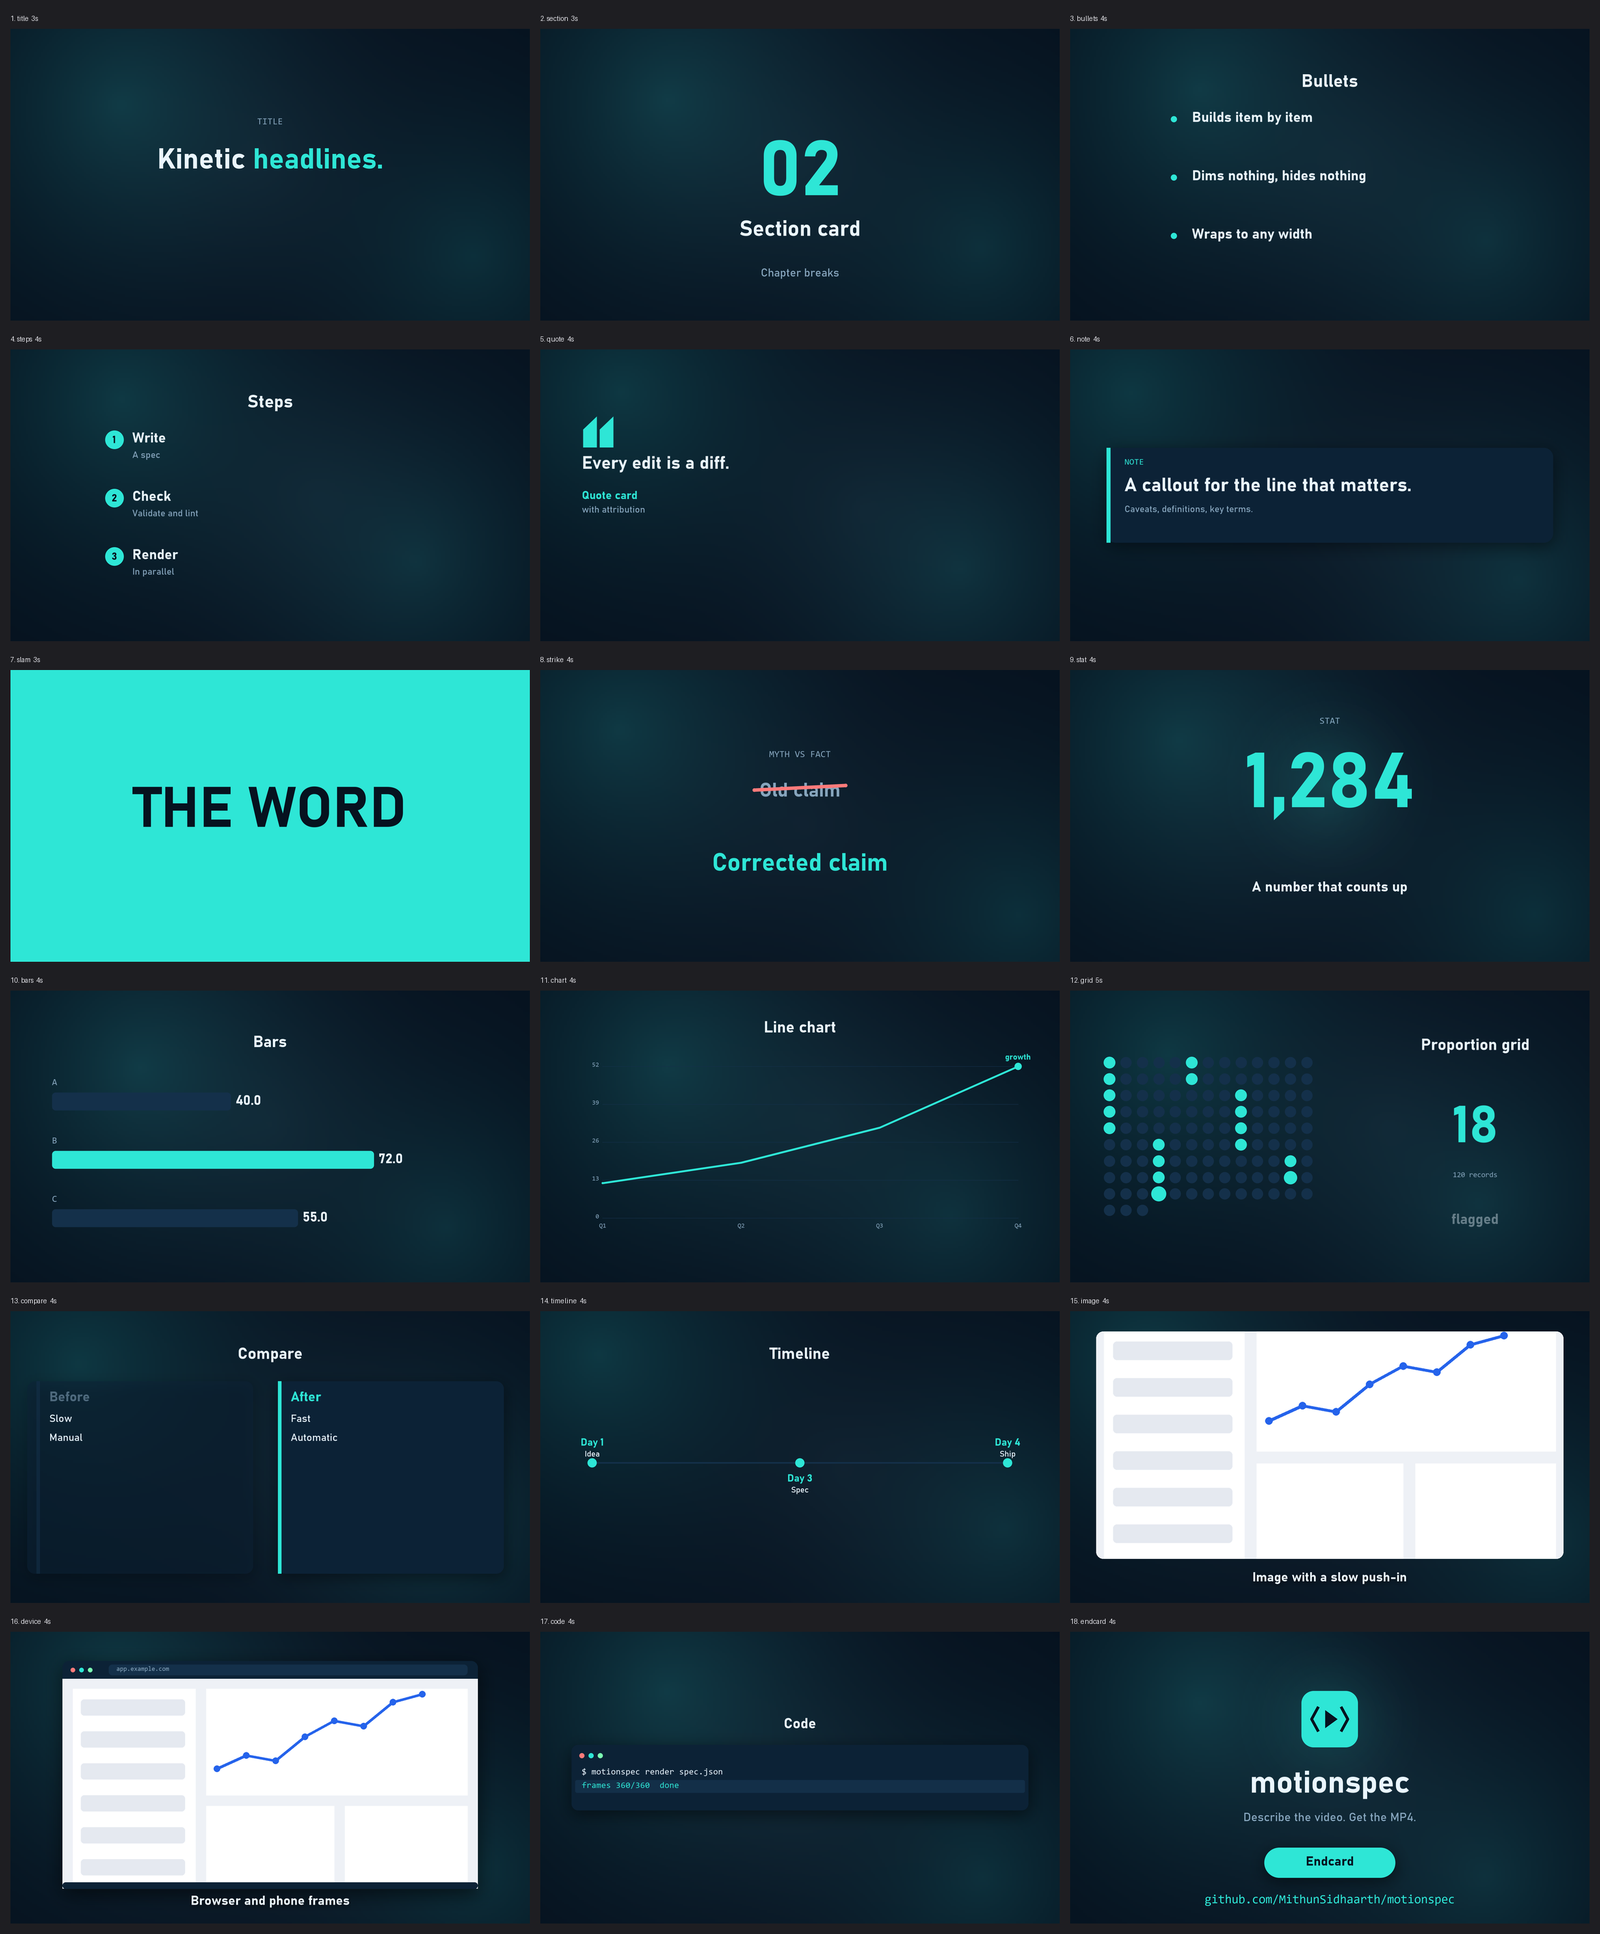
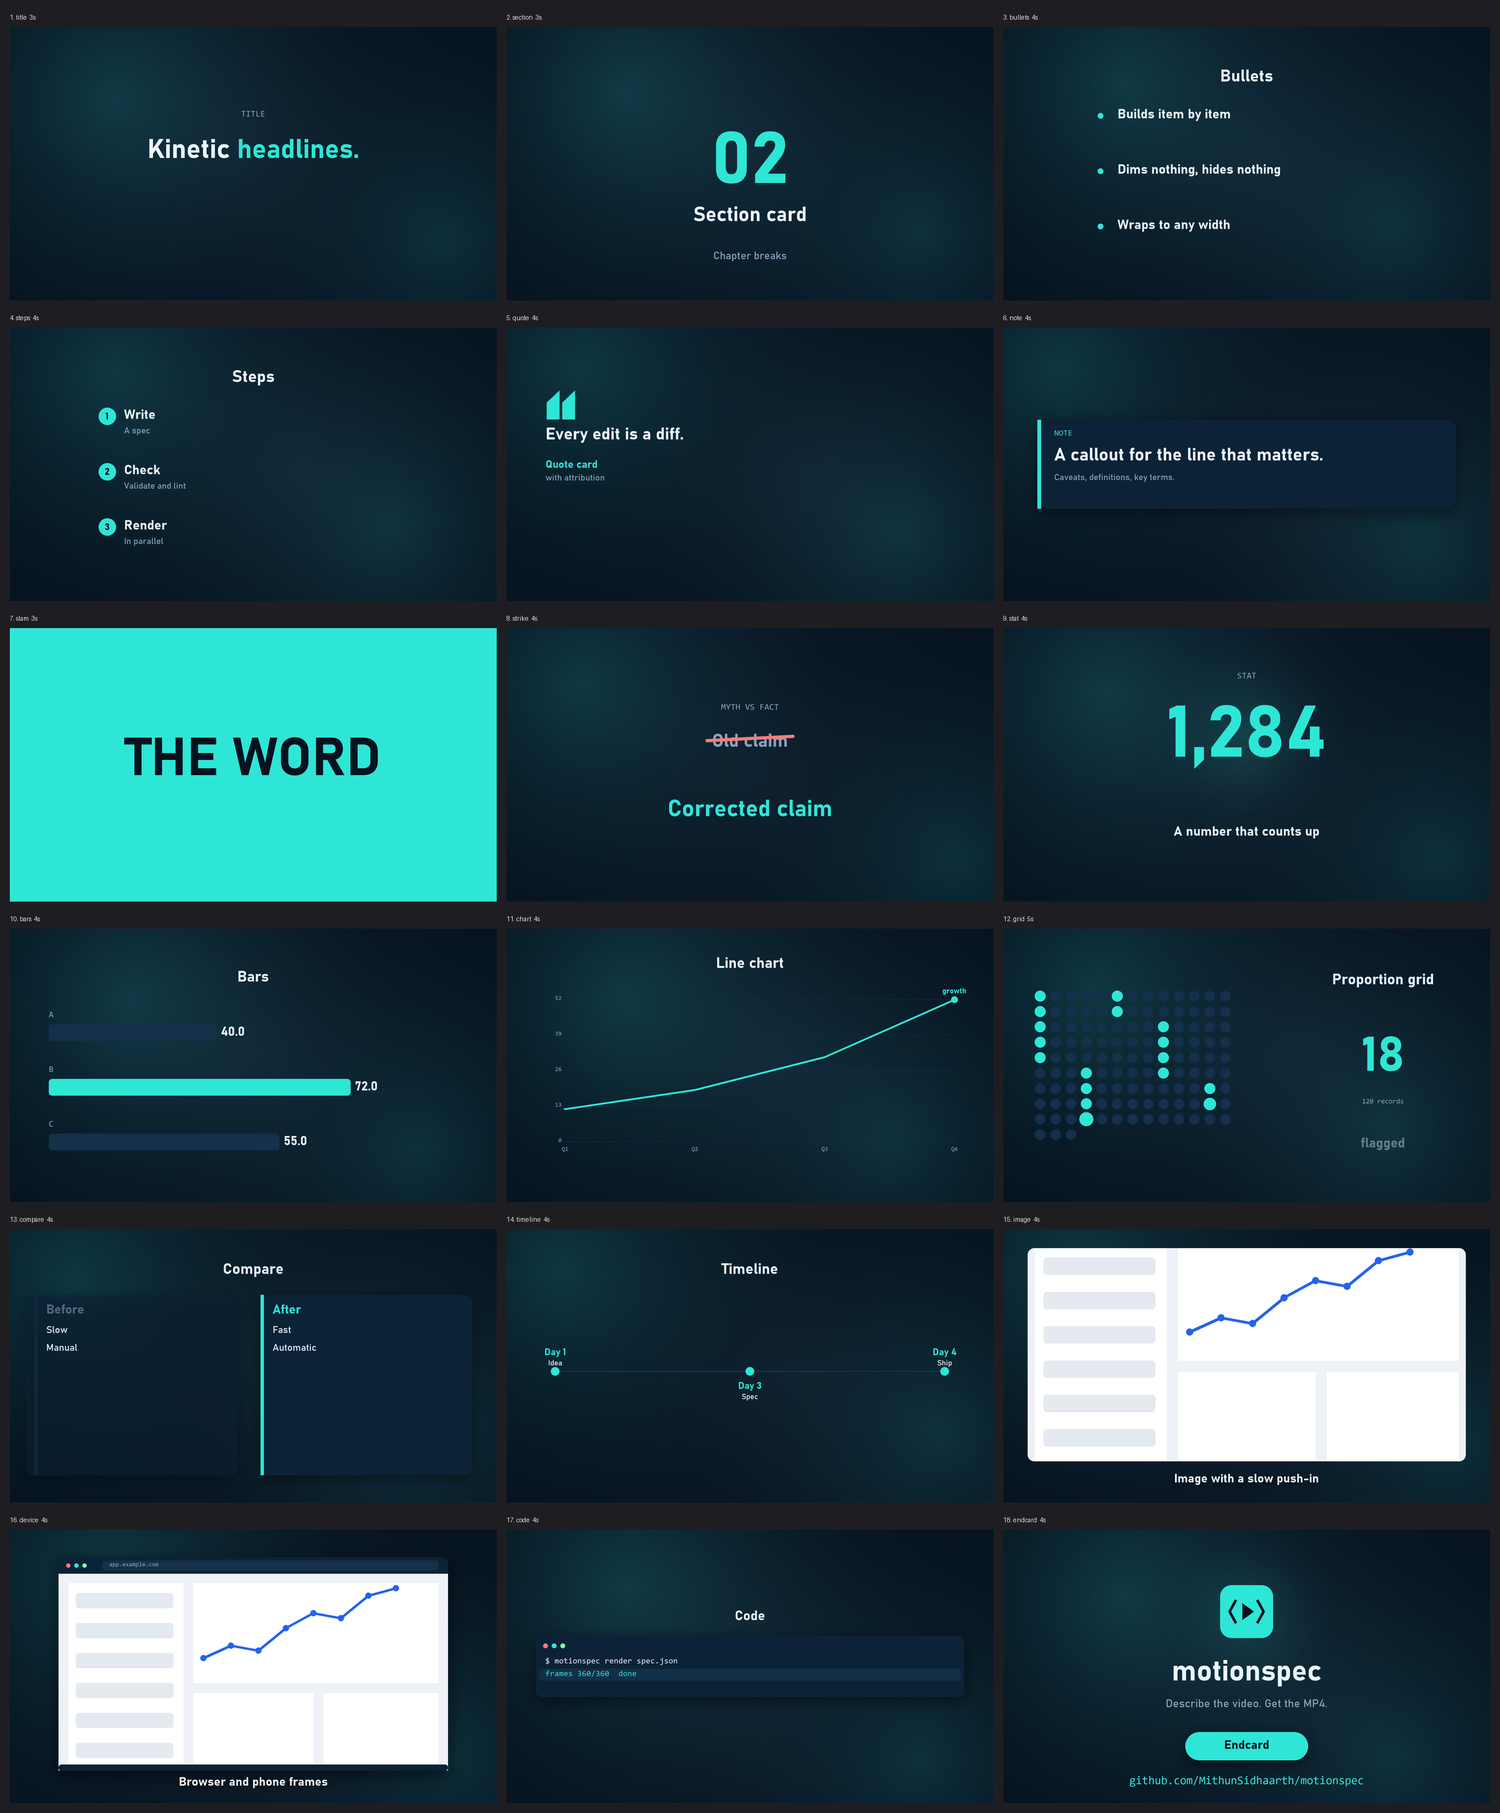
Centre layouts on every format, multi-word emphasis, typing-time warning; ads for motionspec and for the skill; skill and README updated

Changed region(s): [[0.736, 0.0618, 0.828, 0.1236], [0.0613, 0.2162, 0.1227, 0.3089]]

diff --git a/motionspec/scenes/text.py b/motionspec/scenes/text.py
@@ -4,11 +4,13 @@ from . import scene
 
 
 def _tokens(line):
-    """'Make it *pop* today' -> [('Make', False), ('it', False), ('pop', True), ('today', False)] (asterisks mark emphasis)."""
-    out = []
+    """'Make it *pop* now' -> [('Make', False), ('it', False), ('pop', True), ('now', False)]. Emphasis can span words: '*a video*'."""
+    out, on = [], False
     for w in line.split():
-        em = w.startswith("*") and w.rstrip(".,!?;:").endswith("*") and len(w) > 2
-        out.append((w.replace("*", ""), em))
+        start = w.startswith("*"); end = w.rstrip(".,!?;:").endswith("*") and len(w.rstrip(".,!?;:")) > (1 if start else 0)
+        if start: on = True
+        out.append((w.replace("*", ""), on))
+        if end: on = False
     return out
 
 
@@ -17,7 +19,7 @@ def _tokens(line):
        cues=lambda s: [(0.15 + i * s.get("step", 0.22) * (1.5 if s.get("style") == "words" else 1), "tick") for i in range(len(s.get("lines", [])))],
        desc="Big headline. `style`: lines (default) | words (each word springs in) | letters (kinetic). Use *asterisks* to colour a word with the accent.")
 def title(c, t, s):
-    size = s.get("size", 112); y = c.Y(560) if not c.wide else c.H * 0.40; style = s.get("style", "lines"); step = s.get("step", 0.22)
+    size = s.get("size", 112); y = c.Y(560) if c.tall else c.H * (0.40 if c.wide else 0.36); style = s.get("style", "lines"); step = s.get("step", 0.22)
     px = c.S(size)
     if s.get("kicker"): c.text(c.cx, y - c.S(110), s["kicker"], "mono", 36, "muted", prog(t, 0.0, 0.5))
     n_word = 0
@@ -63,7 +65,8 @@ def bullets(c, t, s):
     items = [i if isinstance(i, dict) else {"head": i} for i in s["items"]]
     if not items: return
     if s.get("title"): c.text(c.cx, c.H * 0.15, c.fit(s["title"], "bold", 70, 0.86), "bold", 70, "fg", out_cubic(prog(t, 0.1, .5)))
-    n = len(items); y = c.H * 0.28; step = min(c.S(230), (c.H * 0.6) / n); left = c.W * (0.12 if not c.wide else 0.2)
+    n = len(items); top, bot = c.H * 0.22, c.H * (0.76 if c.tall else 0.88)
+    step = min(c.S(230), (bot - top) / n); block = (n - 1) * step + c.S(120); y = top + max(0.0, ((bot - top) - block) / 2); left = c.W * (0.12 if not c.wide else 0.2)
     for k, it in enumerate(items):
         p = out_cubic(prog(t, 0.45 + k * 0.45, 0.55))
         if s.get("numbered"):

diff --git a/tests/test_motionspec.py b/tests/test_motionspec.py
@@ -156,6 +156,21 @@ class Align(unittest.TestCase):
         self.assertAlmostEqual(out[-1]["t1"], 6.0, delta=0.08)
 
 
+class Emphasis(unittest.TestCase):
+    def test_emphasis_spans_words(self):
+        from motionspec.scenes.text import _tokens
+        self.assertEqual(_tokens("for *a video*."), [("for", False), ("a", True), ("video.", True)])
+        self.assertEqual(_tokens("Make it *pop* now"), [("Make", False), ("it", False), ("pop", True), ("now", False)])
+
+
+class Warnings(unittest.TestCase):
+    def test_code_typing_that_cannot_finish_is_flagged(self):
+        sp = {"scenes": [{"type": "code", "dur": 2, "cps": 10, "lines": ["x" * 80]}]}
+        self.assertTrue(any("typing needs" in w for w in Project(sp, EX).warnings))
+        sp["scenes"][0]["cps"] = 200
+        self.assertFalse(any("typing needs" in w for w in Project(sp, EX).warnings))
+
+
 class Music(unittest.TestCase):
     def test_generated_music_is_deterministic_and_sane(self):
         import numpy as np

diff --git a/motionspec/render.py b/motionspec/render.py
@@ -69,6 +69,10 @@ class Project:
         if self.voiceover:
             vd = audio.probe_duration(self.voiceover)
             if vd > t + 0.05: self.warnings.append(f"voiceover is {vd:.1f}s but scenes total {t:.1f}s: the end will be cut. Use \"autotime\": true or lengthen scenes.")
+        for i, sc in enumerate(scenes):
+            if sc["type"] == "code":
+                need = sum(len(str(x)) for x in sc.get("lines", [])) / max(1.0, float(sc.get("cps", 38))) + 0.4
+                if need > sc["dur"]: self.warnings.append(f"scenes[{i}] (code): typing needs {need:.1f}s but the scene lasts {sc['dur']}s; raise cps or dur")
         self.captions = captions_mod.build(scenes, spec.get("captions"), word_times=self.word_times)
         self.karaoke = spec.get("captions_style") == "karaoke"
 

diff --git a/motionspec/scenes/media.py b/motionspec/scenes/media.py
@@ -87,7 +87,7 @@ def clip(c, t, s):
 def code(c, t, s):
     lines = [str(x) for x in s["lines"]]
     if not lines: return
-    cps = max(1.0, float(s.get("cps", 38))); chars = int(max(0, t - 0.4) * cps)
+    cps = max(1.0, float(s.get("cps", 38))); chars = int(max(0, t - 0.4) * cps)      # cps: characters per second; pick it so typing ends before the scene does
     x0, x1 = c.W * 0.06, c.W * 0.94; size = 34; lh = c.S(size * 1.55)
     h = lh * len(lines) + c.S(150); y0 = c.H / 2 - h / 2
     if s.get("title"): c.text(c.cx, y0 - c.S(110), c.fit(s["title"], "bold", 56, 0.86), "bold", 56, "fg", prog(t, 0.1, .4))

diff --git a/skill/motionspec/references/spec-reference.md b/skill/motionspec/references/spec-reference.md
@@ -1,8 +1,10 @@
 # Spec reference
 
-Generated from the scene registry (`motionspec scenes`). `*` = required. Top-level keys: spec_version, id, kind (reel|ad|explainer|demo|general), format, theme, scenes, captions [{t0,t1,text}], voiceover, music, facts, policy, autotime, blur, post {bloom, grain, aberration}, fps, sfx.
+Generated from the scene registry (`motionspec scenes`). `*` = required.
 
-Every scene also accepts: `camera` {zoom:[from,to], pan:[dx0,dy0,dx1,dy1], drift:0..1}, `transition: "cut"`, `say`, `bg`, `gradient`.
+Top-level keys: spec_version, id, kind (reel|ad|explainer|demo|general), format, theme, look (clean|soft|film|neon), motion (none|calm|lively), backdrop (orbs|grid|dots|none), transition (fade|cut|push|wipe|zoom), scenes, captions [{t0,t1,text}], captions_style (plain|karaoke), voiceover, music ("auto" default | "off" | path | {mood, db}), align, autotime, cues [{t, sound}], facts, approved_facts, policy, blur, post {bloom, grain, aberration}, fps, sfx.
+
+Every scene also accepts: `camera` {zoom:[from,to], pan:[dx0,dy0,dx1,dy1], drift:0..1}, `transition`, `backdrop`, `say`, `bg`, `gradient`.
 
 ```
 
@@ -44,6 +46,14 @@ compare: Two cards side by side (stacked on tall formats): before/after, us/them
     title: str
     left*: dict
     right*: dict
+
+device: Screenshot inside a browser window (`kind`: browser, default on wide) or phone (`kind`: phone, default on tall) frame, with a slow push-in.
+    src*: str
+    kind: str
+    url: str
+    caption: str
+    zoom: int/float
+    pan: list
 
 endcard: End card: theme logo, brand name, tagline, optional pulsing button, url. Text defaults come from the theme.
     brand: str
@@ -116,14 +126,15 @@ timeline: Milestones along a line. events: {when, what}. Horizontal on wide form
     title: str
     events*: list
 
-title: Big staggered headline. `lines`, optional `accent` (index drawn in the accent colour), `kicker`, `subtitle`.
+title: Big headline. `style`: lines (default) | words (each word springs in) | letters (kinetic). Use *asterisks* to colour a word with the accent.
     lines*: list
     accent: int
     size: int/float
     kicker: str
     subtitle: str
     step: int/float
+    style: str
 
-Common to all scenes: type, dur, bg, gradient, say, id, camera, transition, comment   (* = required)
+Common to all scenes: type, dur, bg, gradient, say, id, camera, transition, comment, backdrop   (* = required)
 
 ```

diff --git a/skill/motionspec/SKILL.md b/skill/motionspec/SKILL.md
@@ -16,7 +16,7 @@ Ask four questions, nothing more: **product**, **audience**, **the one claim**, 
 3. Write or edit `spec.json` from the brief (scene catalogue: `motionspec scenes`; field reference: `references/spec-reference.md`).
 4. `motionspec validate spec.json` then `motionspec lint spec.json` (when the project has a policy). Fix every error before going on.
 5. `motionspec preview spec.json -o preview.png`. Show the contact sheet and ask for **one** round of changes.
-6. `motionspec render spec.json -o out.mp4` (add `--format all` for every aspect ratio, `--blur 4` for smoother motion).
+6. `motionspec render spec.json -o out.mp4` (add `--format all` for every aspect ratio, `--blur 4` for smoother motion). Background music is added automatically (an original generated track matched to the video's kind); `"music": "off"` or `--no-music` turns it off, `{"mood": "warm"}` changes it. Mention to the user that it is generated bed music and ask them to listen once. For a live, scrubbable preview while editing: `motionspec serve spec.json`.
 7. Write the post pack (`references/post-pack.md`) and `motionspec srt spec.json`.
 8. Show video path + post pack. **Nothing is published until the user approves that specific post.**
 
@@ -27,6 +27,7 @@ Ask four questions, nothing more: **product**, **audience**, **the one claim**, 
 - Keep claims proportionate: describe patterns and measurements, not motives. Put limits on screen ("illustrative", "screening indicator", "n = 140") when they apply.
 - No new numbers in the caption that are not in the video.
 - Never auto-publish, auto-send or bulk-post.
+- With a voiceover, put the spoken words in each scene's `say`, set `"align": true`, and optionally `"captions_style": "karaoke"`; scene cuts then follow the speech. Without `faster-whisper` the word times are an estimate: say so.
 
 ## Choosing the format and scenes
 

diff --git a/README.md b/README.md
@@ -15,6 +15,17 @@ For solo founders and small teams who need explainers and ads in every screen sh
 
 ---
 
+### More made with it
+
+| | |
+|---|---|
+| **The skill's own ad**: "Ask Claude for a video" (4:5, 9:16, 16:9) | [4:5](docs/media/skill_ad_portrait.mp4) · [9:16](docs/media/skill_ad_reel.mp4) · [16:9](docs/media/skill_ad_landscape.mp4) · [spec](examples/ad_skill.json) |
+| **motionspec's ad** (the one above) | [16:9](docs/media/motionspec_ad_landscape.mp4) · [9:16](docs/media/motionspec_ad_reel.mp4) · [spec](examples/ad_motionspec.json) |
+| **A light-theme product ad** | [spec](examples/product_ad.json) |
+| **A 40-second explainer with chart, timeline and code** | [spec](examples/explainer.json) |
+
+![The skill ad, one frame per scene](docs/img/skill_ad_contact.png)
+
 ## What it is
 
 You write a short JSON file that lists scenes: a headline, a screenshot in a browser frame, a chart, a button. motionspec draws every frame and encodes an MP4 with sound. The same file renders as a 9:16 reel, a 4:5 feed ad, a square post or a 16:9 video.
@@ -220,7 +231,7 @@ Based on each tool's public documentation as of October 2026; check before you d
 - **Hindi, Tamil, Arabic and other complex scripts** need a Pillow build with Raqm layout, which many installs lack. Test your language before relying on it.
 - **Word alignment** without `faster-whisper` is a close estimate, not a transcript.
 - **No text-to-speech.** Bring a voiceover.
-- **Platforms:** developed on Windows; a CI workflow for Windows and Linux is included but has not run yet. macOS is untested.
+- **Platforms:** developed on Windows; the test suite runs in CI on Windows and Linux (Python 3.10 and 3.12). macOS is untested.
 - **Maturity:** version 0.1, one maintainer.
 
 ## Roadmap
